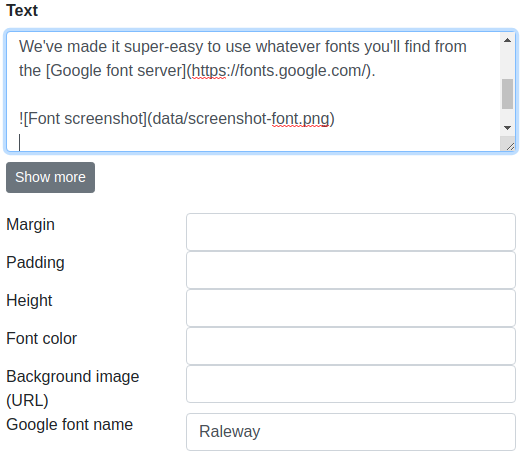
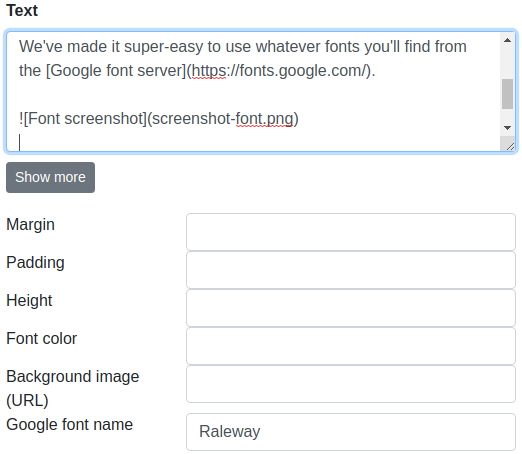
Adding  automatically to image fields

Changed region(s): [[0.2759, 0.2467, 0.6437, 0.2775]]

diff --git a/src/backend/test/PageContent_test.php b/src/backend/test/PageContent_test.php
@@ -1,0 +1,80 @@
+<?php
+
+// Add support for PHPunit 5.x:
+class_alias('\PHPUnit_Framework_TestCase', 'PHPUnit\Framework\TestCase');
+use PHPUnit\Framework\TestCase;
+
+include_once("global_functions.php");
+include_once("PageContent.php");
+
+class PageContent_test extends TestCase {
+
+  function test_add_datapath_prefix() {
+    $pc = new PageContent("data/content.json", "data");
+
+    $this->assertEquals('https://example.com/data/some.file', $pc->add_datapath_prefix('page', 'favicon-ico', 'https://example.com/data/some.file'));
+    $this->assertEquals('data/some.file', $pc->add_datapath_prefix('page', 'favicon-ico', 'data/some.file'));
+    $this->assertEquals('/data/some.file', $pc->add_datapath_prefix('page', 'favicon-ico', '/data/some.file'));
+    $this->assertEquals('data/some.file', $pc->add_datapath_prefix('page', 'favicon-ico', 'some.file'));
+
+    $this->assertEquals('https://example.com/data/some.file', $pc->add_datapath_prefix('page', 'title', 'https://example.com/data/some.file'));
+    $this->assertEquals('data/some.file', $pc->add_datapath_prefix('page', 'title', 'data/some.file'));
+    $this->assertEquals('/data/some.file', $pc->add_datapath_prefix('page', 'title', '/data/some.file'));
+    $this->assertEquals('some.file', $pc->add_datapath_prefix('page', 'title', 'some.file'));
+
+    $this->assertEquals('https://example.com/data/some.file', $pc->add_datapath_prefix('part', 'background-image', 'https://example.com/data/some.file'));
+    $this->assertEquals('data/some.file', $pc->add_datapath_prefix('part', 'background-image', 'data/some.file'));
+    $this->assertEquals('/data/some.file', $pc->add_datapath_prefix('part', 'background-image', '/data/some.file'));
+    $this->assertEquals('data/some.file', $pc->add_datapath_prefix('part', 'background-image', 'some.file'));
+
+    $this->assertEquals('https://example.com/data/some.file', $pc->add_datapath_prefix('part', 'color', 'https://example.com/data/some.file'));
+    $this->assertEquals('data/some.file', $pc->add_datapath_prefix('part', 'color', 'data/some.file'));
+    $this->assertEquals('/data/some.file', $pc->add_datapath_prefix('part', 'color', '/data/some.file'));
+    $this->assertEquals('some.file', $pc->add_datapath_prefix('part', 'color', 'some.file'));
+
+    $this->assertEquals(
+      'Markdown image with ![alt text!](https://example.com/data/some.file) and text',
+      $pc->add_datapath_prefix('part', 'text', 'Markdown image with ![alt text!](https://example.com/data/some.file) and text')
+    );
+    $this->assertEquals(
+      'Markdown image with ![alt text!](data/some.file) and text',
+      $pc->add_datapath_prefix('part', 'text', 'Markdown image with ![alt text!](data/some.file) and text')
+    );
+    $this->assertEquals(
+      'Markdown image with ![alt text!](/data/some.file) and text',
+      $pc->add_datapath_prefix('part', 'text', 'Markdown image with ![alt text!](/data/some.file) and text')
+    );
+    $this->assertEquals(
+      'Markdown image with ![alt text!](data/some.file) and text',
+      $pc->add_datapath_prefix('part', 'text', 'Markdown image with ![alt text!](some.file) and text')
+    );
+
+    $this->assertEquals(
+      'Markdown `image with ![alt text!](some.file) and` text',
+      $pc->add_datapath_prefix('part', 'text', 'Markdown `image with ![alt text!](some.file) and` text')
+    );
+
+    $this->assertEquals(
+      'Markdown image with ![alt text!](data/some.file) and text. Markdown image with ![alt text!](data/some.file) and text.',
+      $pc->add_datapath_prefix('part', 'text', 'Markdown image with ![alt text!](some.file) and text. Markdown image with ![alt text!](some.file) and text.')
+    );
+
+    $this->assertEquals(
+     '```\nMarkdown image with ![alt text!](some.file) and text.\n```',
+     $pc->add_datapath_prefix('part', 'text', '```\nMarkdown image with ![alt text!](some.file) and text.\n```')
+    );
+
+    // This is a known bug. The add_datapath_prefix_text() does not handle cases where there are pictures outside and inside backticks
+    // $this->assertEquals(
+    //  '![alt text!](data/some.file)\n```\nMarkdown image with ![alt text!](some.file) and text.\n```',
+    //  $pc->add_datapath_prefix('part', 'text', '![alt text!](some.file)\n```\nMarkdown image with ![alt text!](some.file) and text.\n```')
+    // );
+    //
+    // $this->assertEquals(
+    //  '![alt text!](data/some.file) `Markdown image with ![alt text!](some.file) and text.`',
+    //  $pc->add_datapath_prefix('part', 'text', '![alt text!](some.file) `Markdown image with ![alt text!](some.file) and text.`')
+    // );
+  }
+}
+
+?>

diff --git a/src/backend/lib/PageContent.php b/src/backend/lib/PageContent.php
@@ -2,10 +2,67 @@
 
 class PageContent {
   public $page_data = null;
+  private $data_path = "";
 
-  public function __construct($data_file) {
+  // This field values should possibly be added with $this->data_path prefix
+  private $DATA_PATH_FIELD = Array(
+    'page' => Array(
+      'favicon-ico'
+    ),
+    'part' => Array(
+      'background-image',
+      'text'
+    )
+  );
+
+  public function __construct($data_file, $data_path = "") {
     $json = file_get_contents($data_file);
     $this->page_data = json_decode($json, true);
+    $this->data_path = $data_path;
+  }
+
+  private function add_datapath_prefix_one($value) {
+    if (!filter_var($value, FILTER_VALIDATE_URL, Array('flags'=>FILTER_FLAG_SCHEME_REQUIRED)) and !preg_match('/[\/]/', $value)) {
+      log_message("add_datapath_prefix returning value with prefix: ".$this->data_path.'/'.$value, null, 2);
+      return $this->data_path.'/'.$value;
+    }
+
+    return $value;
+  }
+
+  private function add_datapath_prefix_text($value) {
+    // NB! This does not handle well cases where an image link exists outside and inside backticks
+    //     See PageContent_test for more info
+    
+    $replacement_count = 0;
+    $original_value = $value;
+
+    do {
+      $value = preg_replace('/^([^`]*)!\[(.*)\]\(([^\/]*)\)([^`]*)$/m', '$1![$2]('.$this->data_path.'/$3)$4', $value, 1, $replacements_made);
+      if ($replacements_made > 0) {
+        $replacement_count++;
+      }
+    } while ($replacements_made > 0);
+
+    if ($replacement_count > 0) {
+      log_message('add_datapath_prefix_text: '.$replacement_count.' changes:', null, 2);
+      log_message('original string: '.$original_value, null, 2);
+      log_message('final string   : '.$value, null, 2);
+    }
+    return $value;
+  }
+
+  public function add_datapath_prefix($scope, $field, $value) {
+    if (in_array($field, $this->DATA_PATH_FIELD[$scope])) {
+      log_message("add_datapath_prefix scope: $scope, field: $field, value: $value", null, 2);
+      if ($scope == "part" and $field == "text") {
+        return $this->add_datapath_prefix_text($value);
+      }
+
+      return $this->add_datapath_prefix_one($value);
+    }
+
+    return $value;
   }
 
   public function get_page_value($field, $default=null) {
@@ -15,7 +72,7 @@ class PageContent {
         return $default;
     }
 
-    return $this->page_data['page_values'][$field];
+    return $this->add_datapath_prefix('page', $field, $this->page_data['page_values'][$field]);
   }
 
   // Returns value you can give to Google Fonts CSS tag, e.g. "Playfair+Display|Tomorrow"
@@ -63,7 +120,7 @@ class PageContent {
       return $default;
     }
 
-    return $this->page_data['parts'][$index][$field];
+    return $this->add_datapath_prefix('part', $field, $this->page_data['parts'][$index][$field]);
   }
 
 }

diff --git a/src/backend/index.php b/src/backend/index.php
@@ -1,7 +1,7 @@
 <?php
 
 $VERSION = "Dummylander 0.2";
-$DATAFILE = "data/content.json";
+$DATAPATH = "data/";
 $ADMIN_PASSWORD = "secret";
 
 // Log levels:
@@ -15,34 +15,18 @@ if (@$_SERVER['QUERY_STRING'] == "admin") {
   $admin_ui = new ShowAdminUI();
 }
 elseif (@$_POST['password'] != "" and $_POST['password'] == $ADMIN_PASSWORD) {
-  $admin_api = new AdminAPI($DATAFILE, @$_POST['function'], @$_POST['data']);
+  $admin_api = new AdminAPI(remove_trailing_slash($DATAPATH), @$_POST['function'], @$_POST['data']);
   echo($admin_api->execute());
 }
 elseif (@$_POST['password'] != "") {
-  $admin_api = new AdminAPI($DATAFILE, 'loginfailed', null);
+  $admin_api = new AdminAPI(remove_trailing_slash($DATAPATH), 'loginfailed', null);
   echo($admin_api->execute());
 }
 else {
-  $show_page = new ShowPage($VERSION, $DATAFILE);
+  $show_page = new ShowPage($VERSION, remove_trailing_slash($DATAPATH));
 }
 
 // Normal termination
 exit(0);
-
-
-function log_message ($message, $exit_level = null, $log_level=null) {
-  global $LOG_LEVEL;
-
-  // Write log message to server log
-  if ($log_level <= $LOG_LEVEL) {
-    error_log($message, 4);
-  }
-
-  if (!is_null($exit_level)) {
-    exit($exit_level);
-  }
-}
-
-
 
 ?>

diff --git a/src/backend/test/global_functions_test.php b/src/backend/test/global_functions_test.php
@@ -1,0 +1,32 @@
+<?php
+
+// Add support for PHPunit 5.x:
+class_alias('\PHPUnit_Framework_TestCase', 'PHPUnit\Framework\TestCase');
+use PHPUnit\Framework\TestCase;
+
+include_once("global_functions.php");
+
+class global_functions_test extends TestCase {
+  function test_remove_trailing_slash() {
+
+    // Unix style
+    $this->assertEquals('data', remove_trailing_slash('data/'));
+    $this->assertEquals('/data', remove_trailing_slash('/data//'));
+    $this->assertEquals('/data', remove_trailing_slash('/data///'));
+    $this->assertEquals('/data/data', remove_trailing_slash('/data/data///'));
+
+    // Windows paths
+    $this->assertEquals('data', remove_trailing_slash('data\\'));
+    $this->assertEquals('\\data', remove_trailing_slash('\\data\\'));
+    $this->assertEquals('\\data', remove_trailing_slash('\\data\\\\'));
+
+    // Mixed
+    $this->assertEquals('data', remove_trailing_slash('data/\\'));
+    $this->assertEquals('data', remove_trailing_slash('data\\/'));
+    $this->assertEquals('/data', remove_trailing_slash('/data/\\'));
+    $this->assertEquals('\\data', remove_trailing_slash('\\data\\/'));
+  }
+}
+
+
+?>

diff --git a/src/backend/lib/ShowPage.php b/src/backend/lib/ShowPage.php
@@ -3,11 +3,12 @@
 class ShowPage {
   private $version = "";
 
-  function __construct($version, $datafile) {
+  function __construct($version, $datapath) {
     $this->version = $version;
+    $datafile = $datapath."/content.json";
 
     if (is_readable($datafile)) {
-      $page = new PageContent($datafile);
+      $page = new PageContent($datafile, $datapath);
 
       $this->render_header($page);
       $this->render_content($page);

diff --git a/src/backend/lib/global_functions.php b/src/backend/lib/global_functions.php
@@ -1,0 +1,20 @@
+<?php
+
+function log_message ($message, $exit_level = null, $log_level=null) {
+  global $LOG_LEVEL;
+
+  // Write log message to server log
+  if ($log_level <= $LOG_LEVEL) {
+    error_log($message, 4);
+  }
+
+  if (!is_null($exit_level)) {
+    exit($exit_level);
+  }
+}
+
+function remove_trailing_slash($path) {
+  return preg_replace('/[\\\\\/]+$/', '', $path);
+}
+
+?>

diff --git a/src/backend/lib/AdminAPI.php b/src/backend/lib/AdminAPI.php
@@ -5,8 +5,8 @@ class AdminAPI {
   private $function = null;
   private $data = null;
 
-  function __construct($data_file, $function, $data) {
-    $this->page_storage = new PageStorage($data_file);
+  function __construct($data_path, $function, $data) {
+    $this->page_storage = new PageStorage($data_path."/content.json");
     $this->function = $function;
     $this->data = $data;
   }

diff --git a/root.php b/root.php
@@ -1,6 +1,7 @@
 <!-- include:src/backend/index.php -->
 <!-- include:src/backend/ext/Parsedown.php -->
 ?>
+<!-- include:src/backend/lib/global_functions.php -->
 <!-- include:src/backend/lib/AdminAPI.php -->
 <!-- include:src/backend/lib/PageContent.php -->
 <!-- include:src/backend/lib/PageStorage.php -->
